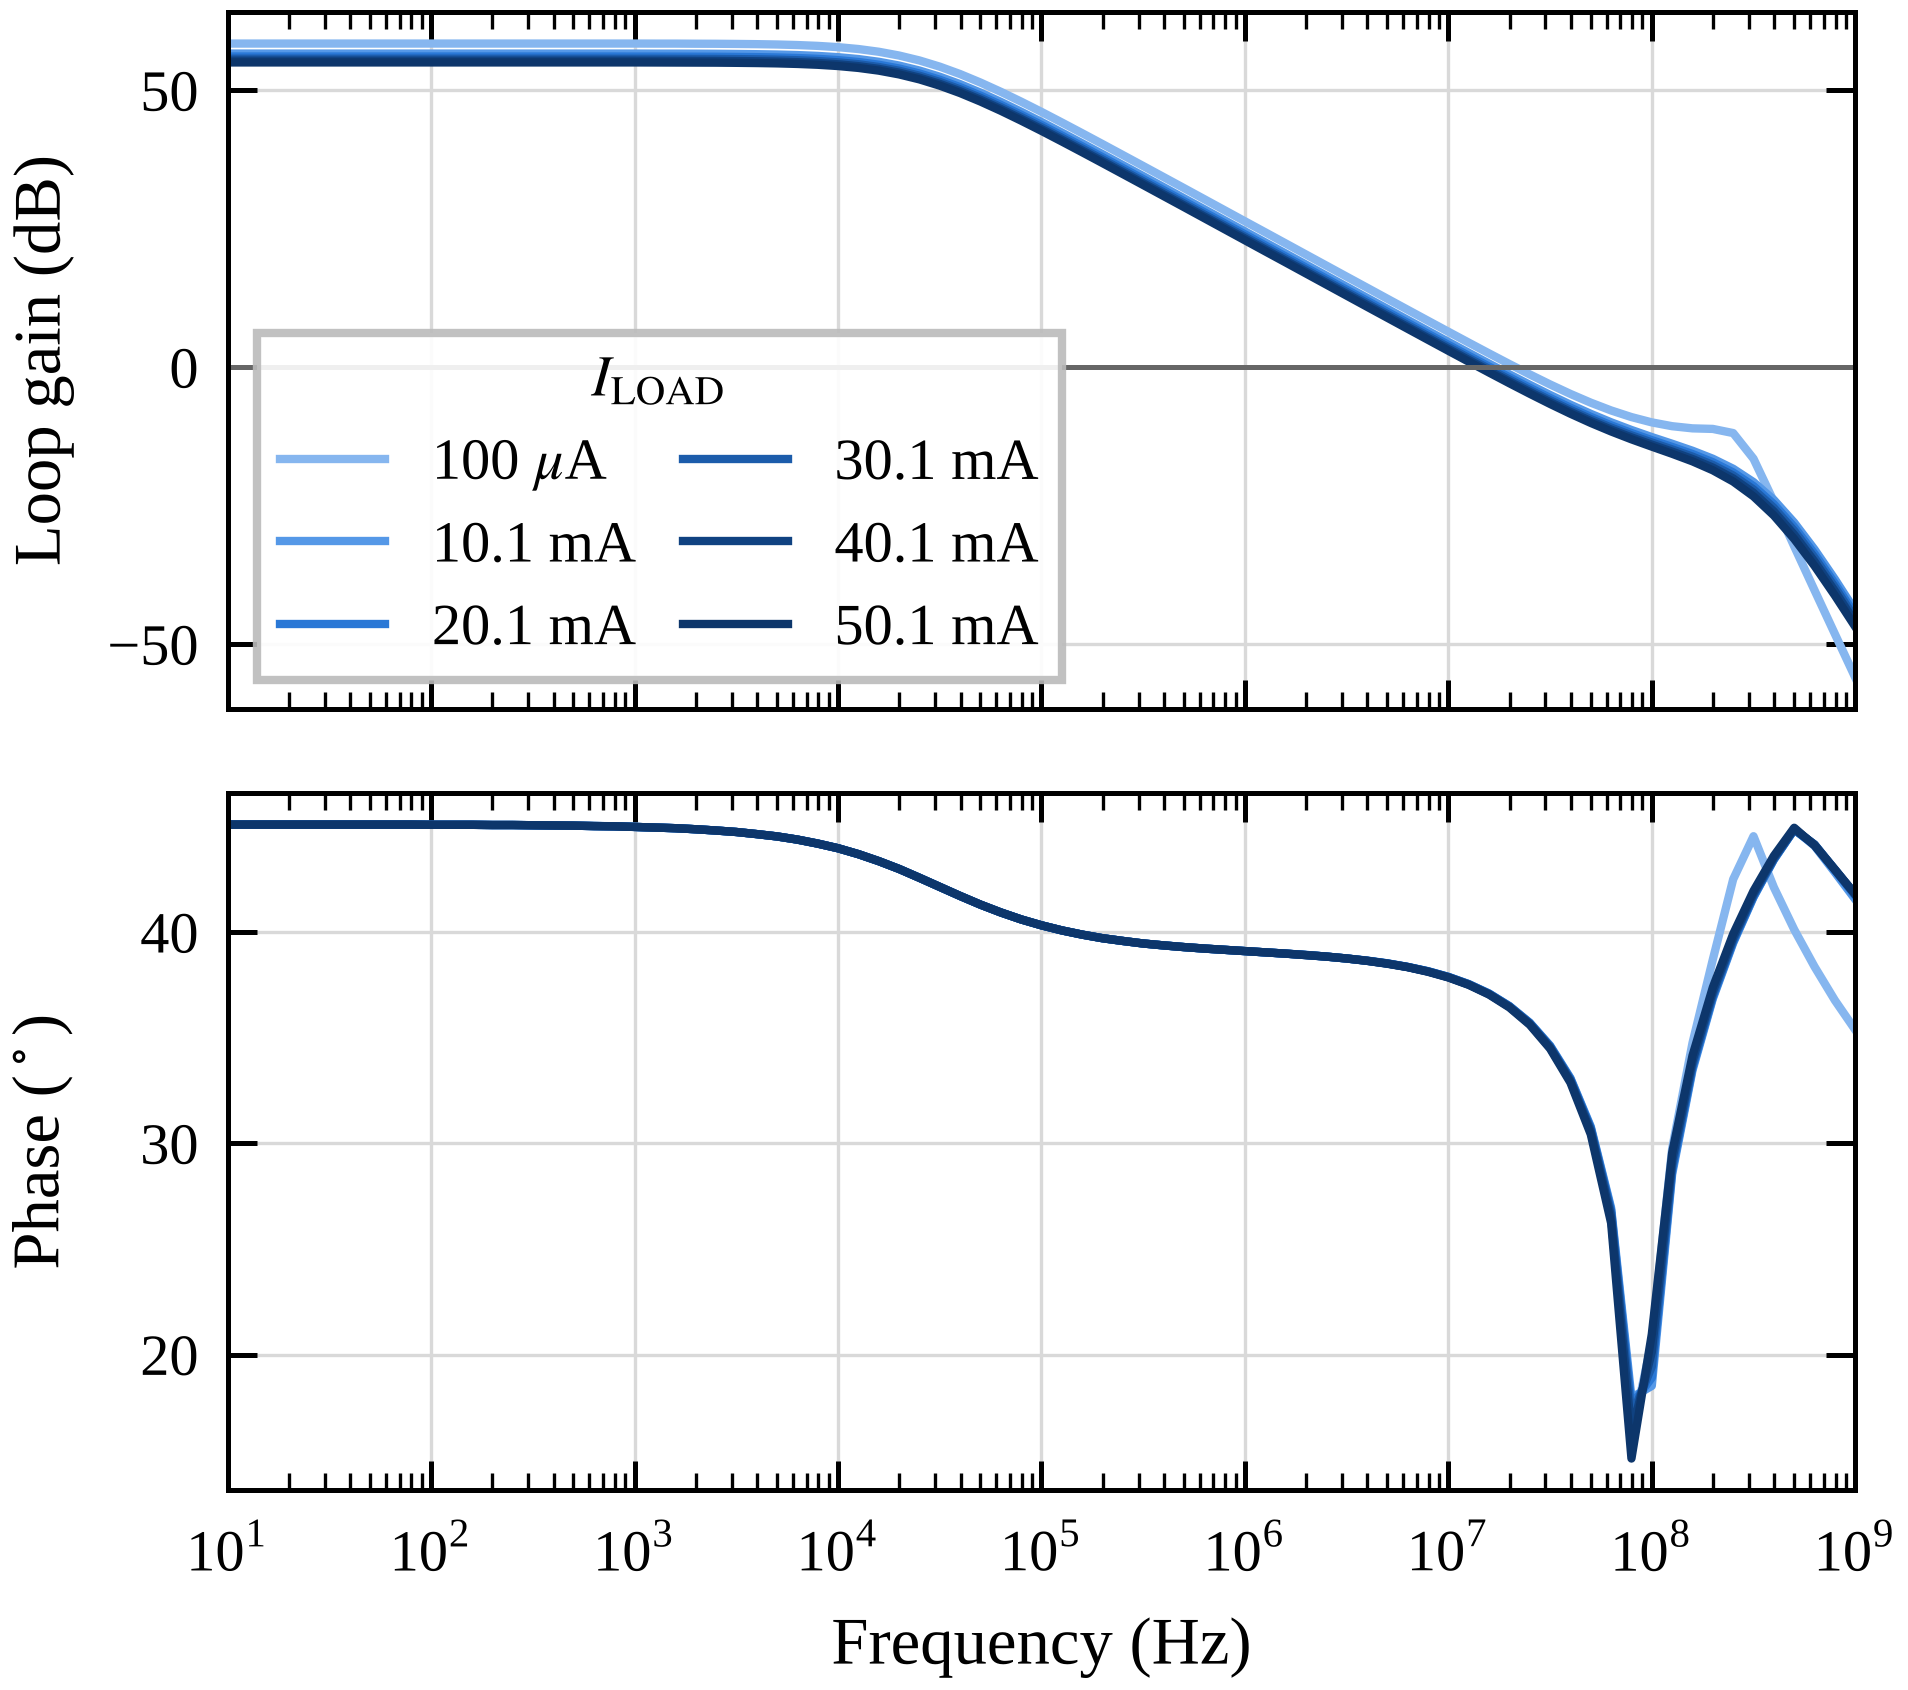
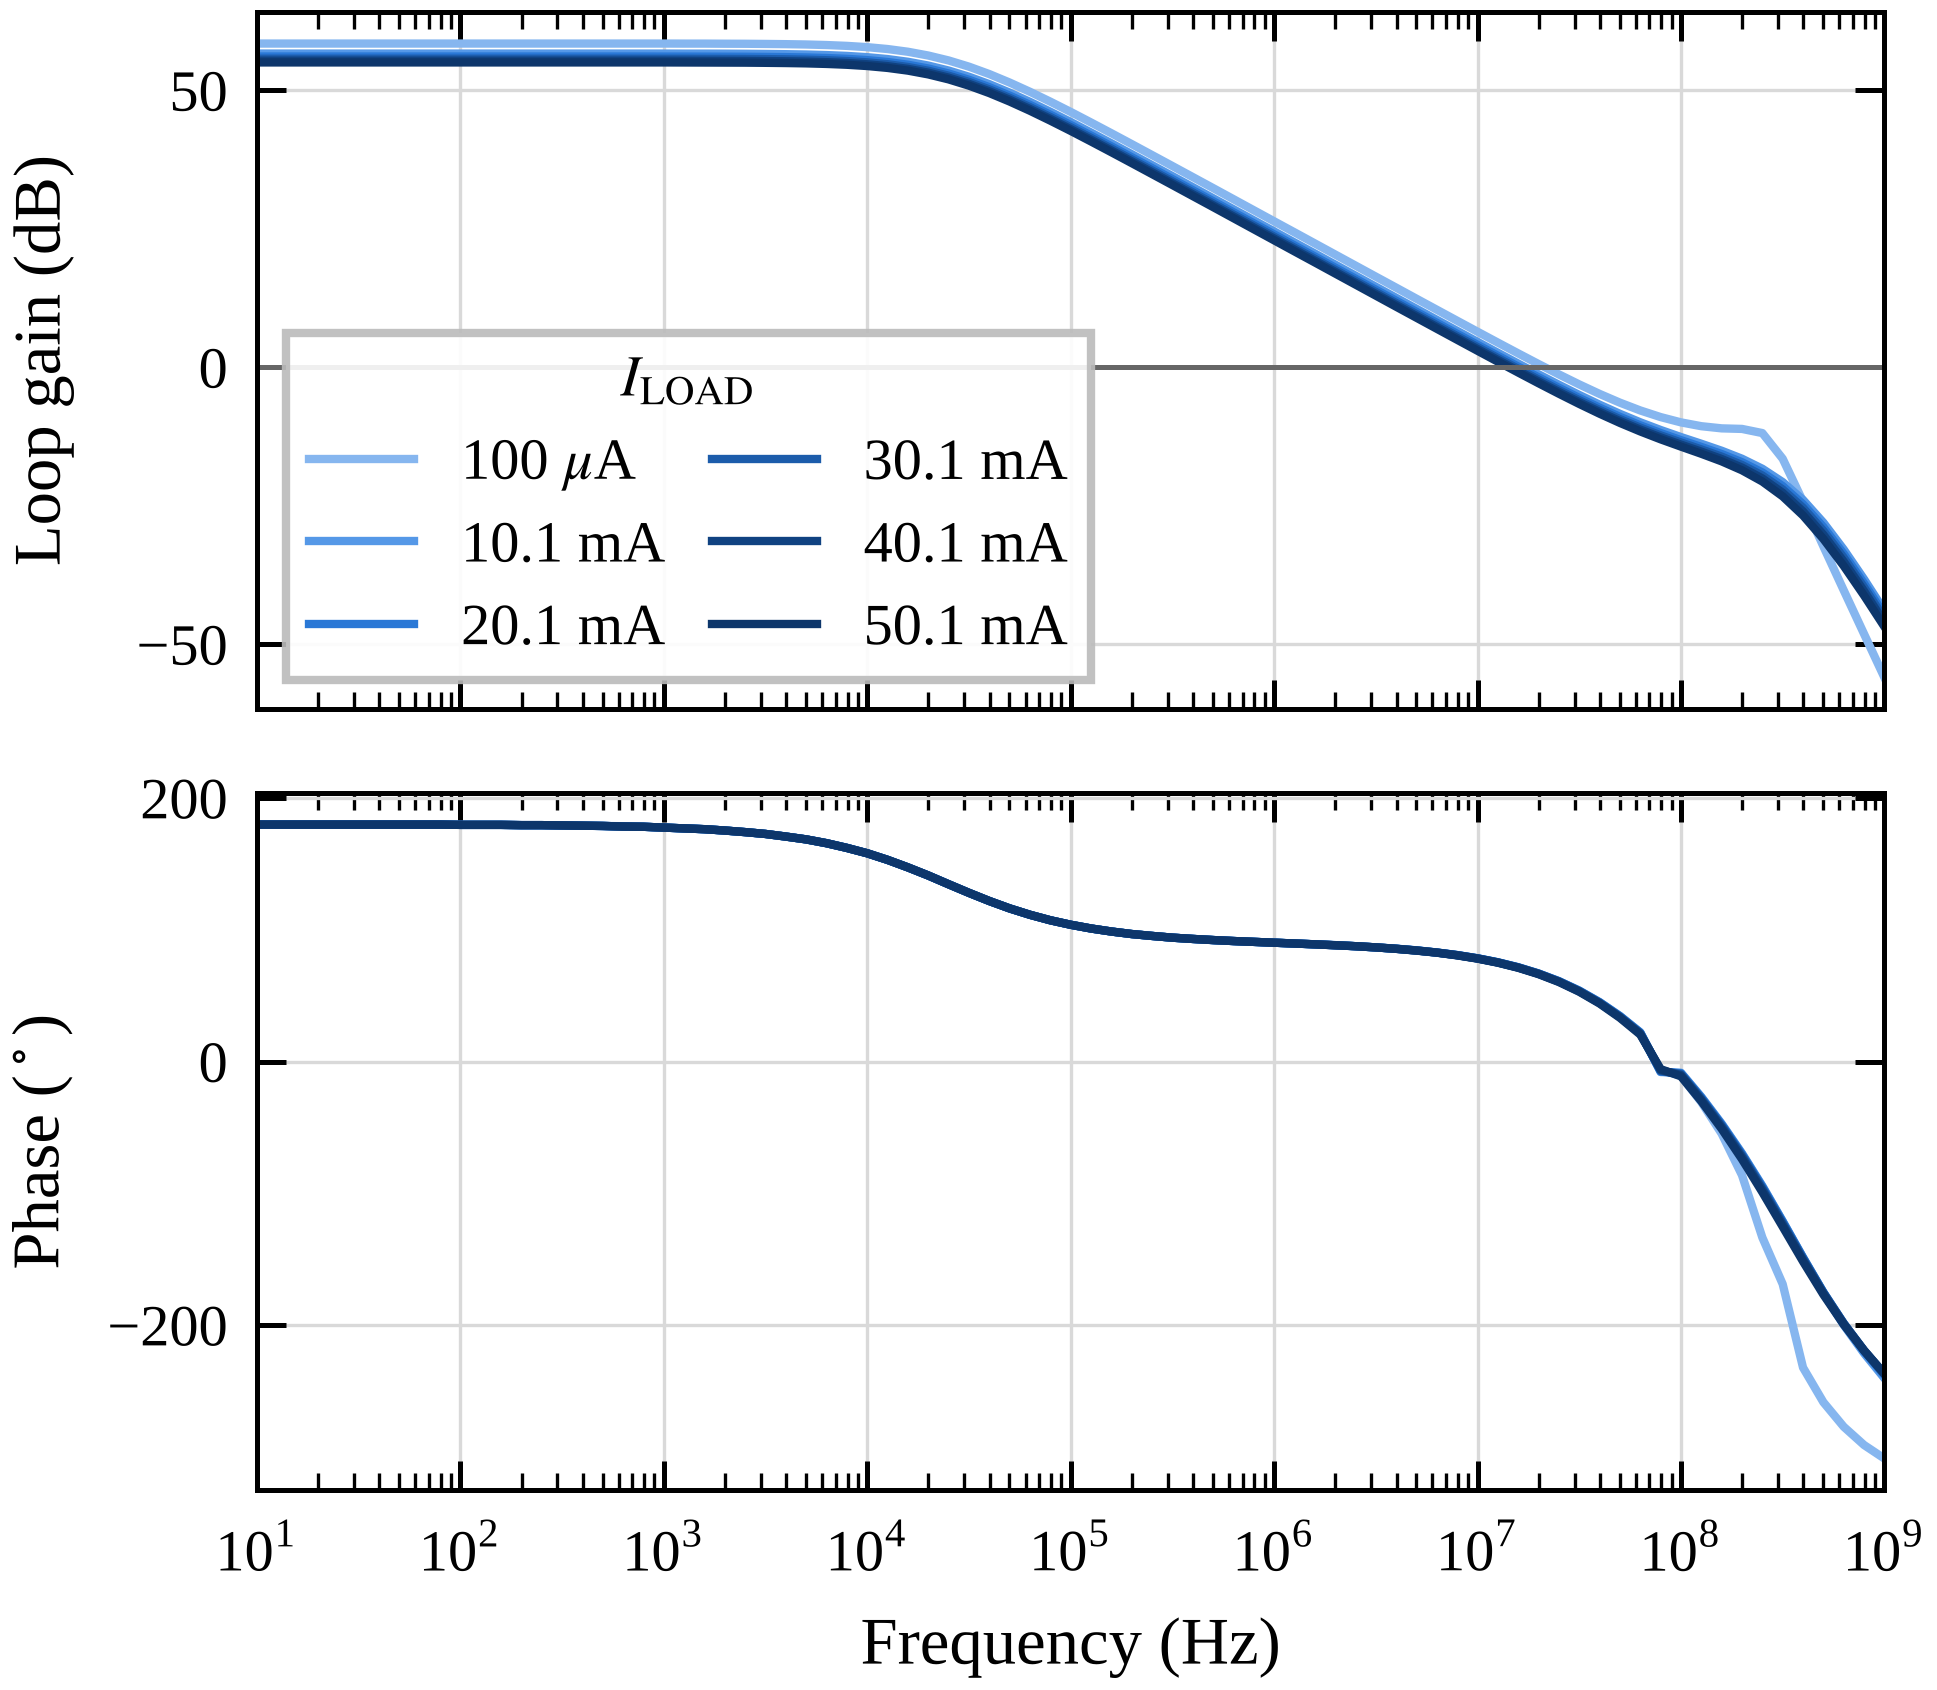
Recover overall-loop phase exported as dB of phase
stb1.csv phase columns hold 20*log10(|phase|) (180 deg -> 45.1). Invert it
and restore the sign after the zero crossing; PM now matches the simulator
(~65-73 deg).

Claude-Session: https://claude.ai/code/session_0185AipuuyvYgHtcdEt8xUkq

diff --git a/scripts/ldo_figures.py b/scripts/ldo_figures.py
@@ -318,11 +318,31 @@ def fig_efficiency():
 
 
 # ---------------------------------------------------------- 7. Stability ----
-def fig_stability(fname, outname, title):
+def undo_phase_db(x):
+    """Recover lstb phase from a column exported as 20*log10(|phase|).
+
+    Sign is lost in such an export: phase is positive down to the zero crossing
+    (minimum of |phase|); after it, each point takes whichever of -|p| or
+    -(360-|p|) keeps the curve monotonically falling (unwrapped below -180 deg).
+    """
+    m = 10 ** (x / 20)
+    k0 = int(np.argmin(m))
+    ph = m.copy()
+    prev = 0.0
+    for k in range(k0, len(m)):
+        cands = [-m[k], -(360 - m[k])]
+        ok = [c for c in cands if c <= prev + 1.0] or cands
+        ph[k] = prev = min(ok, key=lambda c: abs(c - prev))
+    return ph
+
+
+def fig_stability(fname, outname, title, phase_db=False):
     cols, d = load(fname)
     f = d[:, 0]
     n = (d.shape[1] - 1) // 2
     G, P = d[:, 1:1 + n], d[:, 1 + n:]
+    if phase_db:
+        P = np.column_stack([undo_phase_db(p) for p in P.T])
     il = [param(c) for c in cols[1:1 + n]]
     colors = ordinal(n)
     fig, (ax1, ax2) = plt.subplots(2, 1, figsize=(COL_W, 3.2), sharex=True,
@@ -360,6 +380,7 @@ if __name__ == "__main__":
     fig_psr()
     fig_transient()
     fig_efficiency()
-    fig_stability("stb1.csv", "fig8a_stability_overall_loop", None)
+    # stb1.csv phase columns were exported as dB of the phase -> undo it
+    fig_stability("stb1.csv", "fig8a_stability_overall_loop", None, phase_db=True)
     fig_stability("f_stb1.csv", "fig8b_stability_fast_loop", None)
     (OUT / "metrics.txt").write_text("\n".join(metrics) + "\n")

diff --git a/README.md b/README.md
@@ -17,5 +17,5 @@ Serif / DejaVu Serif when Times is not installed).
 | fig5_transient | tr1.csv | VOUT (0.8 V / 0.9 V) and ILOAD, 150 µA ↔ 10 mA |
 | fig6_transient_zoom | tr1.csv | zoom on rising (a) and falling (b) load steps |
 | fig7_current_efficiency | eff1.csv | Iq and current efficiency vs ILOAD |
-| fig8a_stability_overall_loop | stb1.csv | overall loop gain & phase vs ILOAD |
+| fig8a_stability_overall_loop | stb1.csv | overall loop gain & phase vs ILOAD (phase column was exported as 20·log10(\|phase\|); the script undoes it) |
 | fig8b_stability_fast_loop | f_stb1.csv | fast (FVF) loop gain & phase vs ILOAD |
